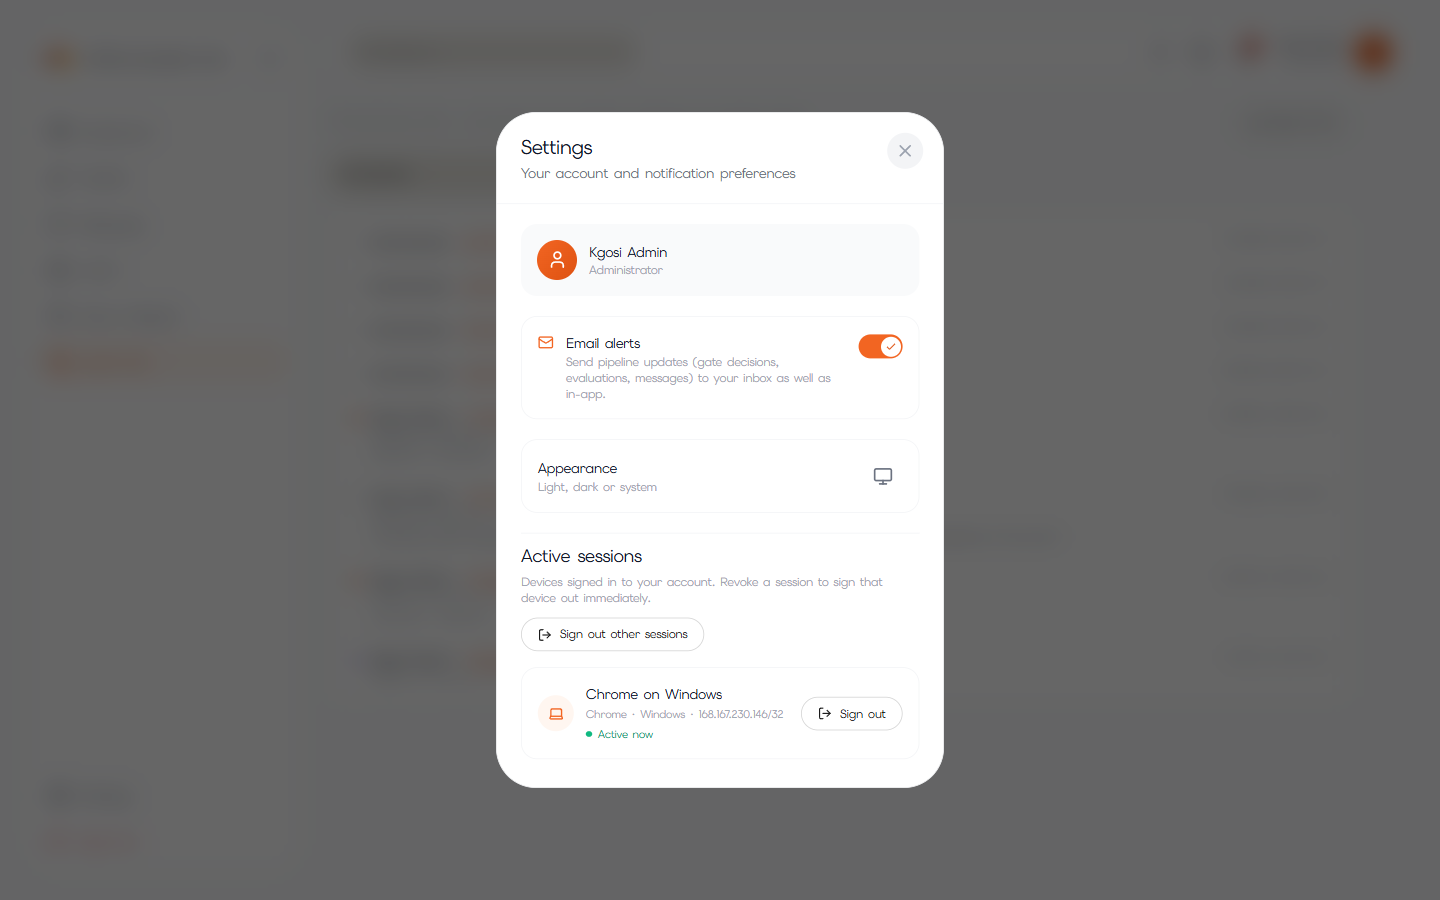
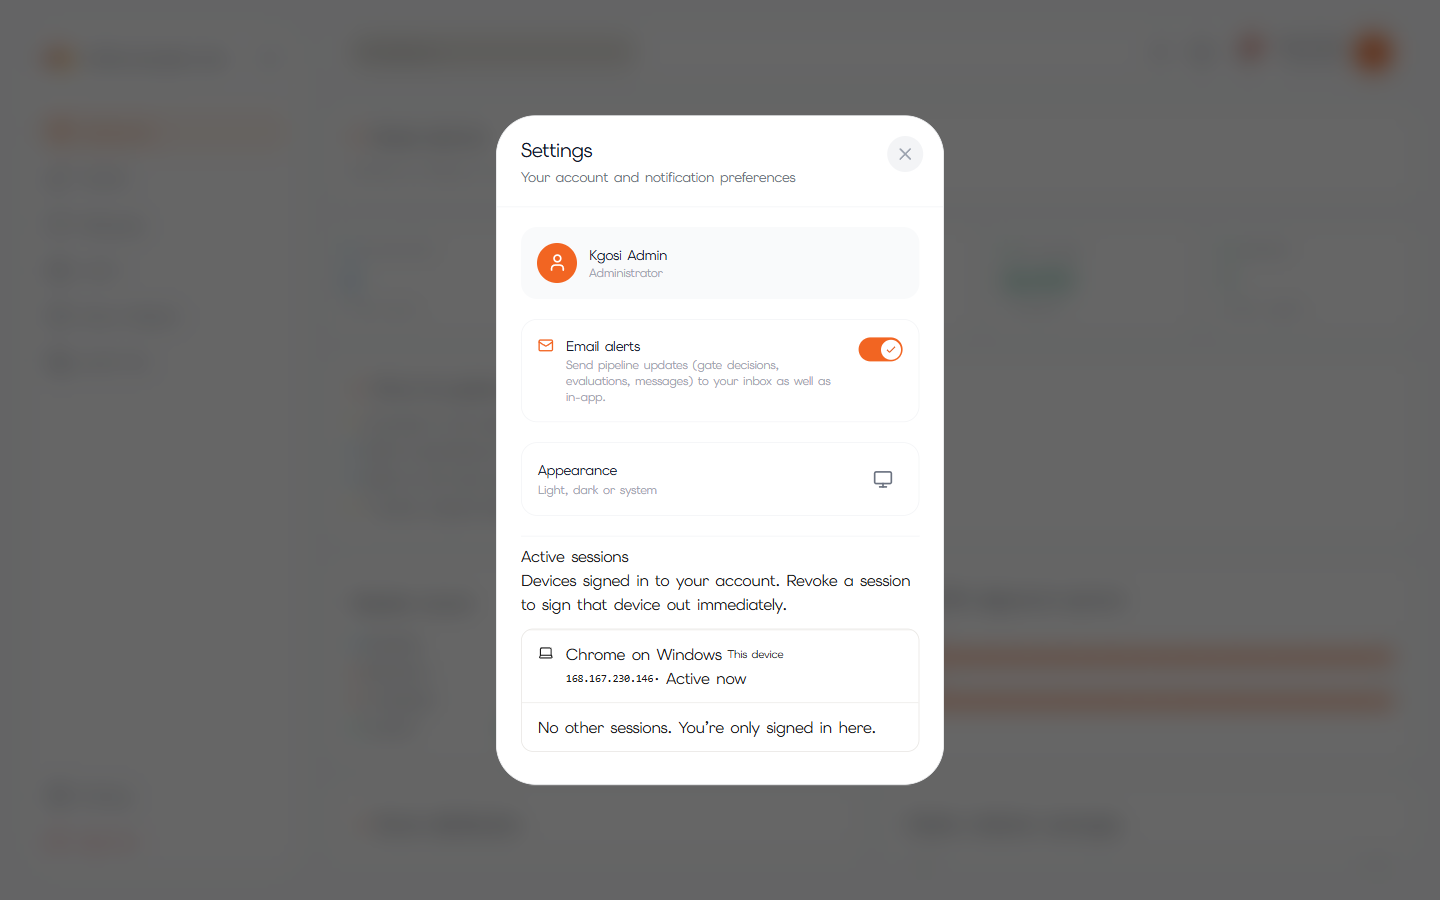
Use the original Obsidian components, fix gallery rendering and refresh screenshots
- Replace the hand-written stand-ins with the originals pulled from the
  Obsidian UI registry (active-sessions, art-gallery, draggable-marquee,
  flip-text, hover-img, v-prism) and mirror their assets locally because
  their CDN blocks CORS.
- React.lazy needs a default export: map the named ArtGallery export.
- Remove the leftover hover-image wrapper from the gallery grid.
- Refresh the gallery, settings and changelog screenshots.

diff --git a/platform/src/pages/Gallery.jsx b/platform/src/pages/Gallery.jsx
@@ -14,8 +14,9 @@ import { supabase } from '../lib/supabase';
 import { getAttachmentUrls } from '../lib/storage';
 import { SDGS } from '../lib/sdgs';
 
-/* three.js is heavy — load the showcase only when it is on screen */
-const ArtGallery = lazy(() => import('@/components/block/art-gallery'));
+/* three.js is heavy - load the showcase only when it is on screen.
+   The original component has a named export only, so map it to default. */
+const ArtGallery = lazy(() => import('@/components/block/art-gallery').then(m => ({ default: m.ArtGallery })));
 
 export default function Gallery({ onBack }) {
     const [awarded, setAwarded] = useState(null);
@@ -149,39 +150,31 @@ export default function Gallery({ onBack }) {
                     </div>
                 )}
                 {awarded && awarded.length > 0 && (
-                    <HoverImage
-                        items={tiles.filter(t => t.src).map(t => ({ id: t.id, src: t.src, title: t.title }))}
-                        className="grid grid-cols-1 sm:grid-cols-2 lg:grid-cols-3 gap-5"
-                    >
-                        {awarded.map((s, i) => {
-                            const img = (s.attachments || []).find(a => a.kind === 'image');
-                            const preview = img ? mediaUrls[img.path] : null;
-                            return (
-                                <motion.button
-                                    key={s.id}
-                                    data-hover-item={preview ? s.id : undefined}
-                                    initial={{ opacity: 0, y: 16 }}
-                                    animate={{ opacity: 1, y: 0 }}
-                                    transition={{ delay: i * 0.06 }}
-                                    onClick={() => setOpen(s)}
-                                    className="glass-panel rounded-3xl p-6 text-left hover:border-accent-500/40 transition-colors group"
-                                >
-                                    <div className="flex items-center justify-between">
-                                        <span className="px-2.5 py-1 rounded-full text-[11px] bg-accent-500/15 text-accent-300">
-                                            {s.stage_of_development || 'Idea'}
-                                        </span>
-                                        <Trophy className="w-4 h-4 text-accent-400 group-hover:scale-110 transition-transform" />
-                                    </div>
-                                    <h3 className="mt-4 text-lg tracking-tight line-clamp-2">{s.title}</h3>
-                                    <p className="mt-2 text-sm text-white/50 line-clamp-3">{s.description}</p>
-                                    <div className="mt-4 flex items-center justify-between text-xs text-white/40">
-                                        <span className="truncate">{s.owner_name || 'Anonymous innovator'}</span>
-                                        <span>{(s.sdgs || []).length} SDG{s.sdgs?.length === 1 ? '' : 's'}</span>
-                                    </div>
-                                </motion.button>
-                            );
-                        })}
-                    </HoverImage>
+                    <div className="grid grid-cols-1 sm:grid-cols-2 lg:grid-cols-3 gap-5">
+                        {awarded.map((s, i) => (
+                            <motion.button
+                                key={s.id}
+                                initial={{ opacity: 0, y: 16 }}
+                                animate={{ opacity: 1, y: 0 }}
+                                transition={{ delay: i * 0.06 }}
+                                onClick={() => setOpen(s)}
+                                className="glass-panel rounded-3xl p-6 text-left hover:border-accent-500/40 transition-colors group"
+                            >
+                                <div className="flex items-center justify-between">
+                                    <span className="px-2.5 py-1 rounded-full text-[11px] bg-accent-500/15 text-accent-300">
+                                        {s.stage_of_development || 'Idea'}
+                                    </span>
+                                    <Trophy className="w-4 h-4 text-accent-400 group-hover:scale-110 transition-transform" />
+                                </div>
+                                <h3 className="mt-4 text-lg tracking-tight line-clamp-2">{s.title}</h3>
+                                <p className="mt-2 text-sm text-white/50 line-clamp-3">{s.description}</p>
+                                <div className="mt-4 flex items-center justify-between text-xs text-white/40">
+                                    <span className="truncate">{s.owner_name || 'Anonymous innovator'}</span>
+                                    <span>{(s.sdgs || []).length} SDG{s.sdgs?.length === 1 ? '' : 's'}</span>
+                                </div>
+                            </motion.button>
+                        ))}
+                    </div>
                 )}
             </div>
 
